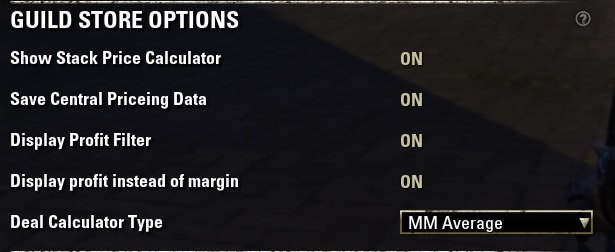
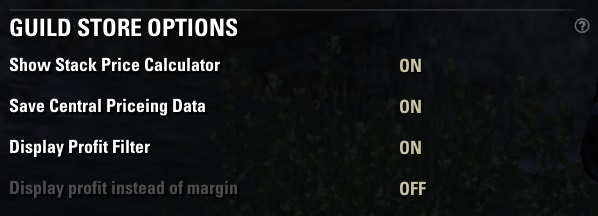
added menu explinations

diff --git a/3-master_merchant.html b/3-master_merchant.html
@@ -591,7 +591,17 @@ title: Master Merchant
 <p class="empty">&nbsp;</p>
 <p>{% include image.html file="img/custom_deal_calc.jpg" alt="custom_deal_calc" %}</p>
 <p class="empty">&nbsp;</p>
-<p class="note"> There is no function to check if you set an incorrect value or not. Meaning if Okay Deal Range is 25 percent and the Reasonable Deal Range is 20 percent, nothing will tell you that's not going to work. You will need to keep the values in order yourself from lowest to highest.</p>
+<p class="list-1">&bull;&nbsp; <font class="tan">Deal Calculator Type</font>: Choose from MM Average, TTC Average, TTC Suggested, and the Bonanza Price.</p>
+<p class="list-1">&bull;&nbsp; <font class="tan">Modify TTC Suggested Price by 25 percent</font>: When enabled will add 25 percent to the Suggested Price used for the Deal Calculator and the ToolTip. This is the same value as showin in the TTC Tooltip. See the <font class="tan">Modified Suggested Price</font> spoiler below for an example.</p>
+<p class="empty">&nbsp;</p>
+<p class="note"> There is no function to check if you set an incorrect value or not. Meaning if <font class="white">Okay Deal Range</font> is <font class="tan">25</font> percent and the <font class="ltgreen">Reasonable Deal Range</font> is <font class="tan">20</font> percent, nothing will tell you that's not going to work. You will need to keep the values in order yourself from lowest to highest.</p>
+<p class="empty">&nbsp;</p>
+<div id="modifiedsuggestedprice"></div>
+<input type="checkbox" id="spoiler2" />
+<label for="spoiler2">Modified Suggested Price</label>
+<div class="main-content">
+<p>{% include image.html file="img/example_ttc_suggested.jpg" alt="example_ttc_suggested" %}</p>
+</div>
 <p class="empty">&nbsp;</p>
 <h3 class="header3" id="OtherTooltipOptions">3.13.1.7 - Other Tooltip Options</h3>
 <p class="empty">&nbsp;</p>
@@ -608,6 +618,8 @@ title: Master Merchant
 <p class="empty">&nbsp;</p>
 <p>{% include image.html file="img/inventory_options.jpg" alt="inventory_options" %}</p>
 <p class="empty">&nbsp;</p>
+<p class="list-1">&bull;&nbsp; <font class="tan">Modify TTC Suggested Price by 25 percent</font>: When enabled will add 25 percent to the Suggested Price shown in the inventory. This is the same value as showin in the TTC Tooltip. See the <font class="tan">Modified Suggested Price</font> <a  href="#modifiedsuggestedprice" >spoiler above</a> for an example.</p>
+<p class="empty">&nbsp;</p>
 <h3 class="header3" id="GuildStoreOptions">3.13.1.10 - Guild Store Options</h3>
 <p class="empty">&nbsp;</p>
 <p>{% include image.html file="img/guild_store_options.jpg" alt="guild_store_options" %}</p>
@@ -620,7 +632,6 @@ title: Master Merchant
 <p class="list-1">&bull;&nbsp; <font class="tan">Save Central Pricing Data</font>: When <font class="yellow">Enabled</font> all pricing data is stored and available to all guilds. When <font class="yellow">Disabled</font> all pricing data is stored separate for each guild.</p>
 <p class="list-1">&bull;&nbsp; <font class="tan">Display Profit Filter</font>: Adds the Profit to the <font class="tan">Time</font> column for the guild store.</p>
 <p class="list-1">&bull;&nbsp; <font class="tan">Display profit instead of margin</font>: Enabled shows the profit value in gold pieces, and disabled shows a percentage.</p>
-<p class="list-1">&bull;&nbsp; <font class="tan">Deal Calculator Type</font>: Choose from MM Average, TTC Average, TTC Suggested, and the Bonanza Price.</p>
 <p class="empty">&nbsp;</p>
 <p class="note"> The Price Calculator will not show up with Awesome Guild Store. The Profit Filter is AGS only. Adding the profit margin or the total profit will be shown with or without AGS.</p>
 <p class="note"> Awesome Guild Store uses its own internal pricing routines and only uses the MM Pricing Data when there is not AGS information. Because of that it may appear that the MM pricing data is malfunctioning when it isn't.</p>
@@ -704,15 +715,15 @@ title: Master Merchant
 <p class="note"> While the selectors do not seem to be dependant on the sales in your Master Merchant Data, there may be unknown factors that prevent the selector from showing. The code is extremely old and dates back to the introduction of the Champion Points system.</p>
 <p class="empty">&nbsp;</p>
 <p><font class="yellow">Hat of a Mother's Sorrow</font></p>
-<input type="checkbox" id="spoiler2" />
-<label for="spoiler2">Hat of a Mother's Sorrow</label>
+<input type="checkbox" id="spoiler3" />
+<label for="spoiler3">Hat of a Mother's Sorrow</label>
 <div class="main-content">
 <p>{% include image.html file="img/ms_legendary.jpg" alt="ms_legendary" %}</p>
 </div>
 <p class="empty">&nbsp;</p>
 <p><font class="purple">Hat of a Mother's Sorrow</font></p>
-<input type="checkbox" id="spoiler3" />
-<label for="spoiler3">Hat of a Mother's Sorrow</label>
+<input type="checkbox" id="spoiler4" />
+<label for="spoiler4">Hat of a Mother's Sorrow</label>
 <div class="main-content">
 <p>{% include image.html file="img/ms_epic.jpg" alt="ms_epic" %}</p>
 </div>
@@ -826,8 +837,8 @@ title: Master Merchant
 <p class="empty">&nbsp;</p>
 <p>If you manually install your mods, of if you want to know which folders belong to Master merchant, click the spoiler.</p>
 <p class="empty">&nbsp;</p>
-<input type="checkbox" id="spoiler4" />
-<label for="spoiler4">Master Merchant Folders</label>
+<input type="checkbox" id="spoiler5" />
+<label for="spoiler5">Master Merchant Folders</label>
 <div class="main-content">
 <p>{% include image-caption.html file="img/mm_files_installed.jpg" alt="mm_files_installed" caption="To see a larger image, right click the image and choose View Image." %}</p>
 </div>
@@ -854,8 +865,8 @@ title: Master Merchant
 <p class="empty">&nbsp;</p>
 <p>I won't be showing how to install all the required libraries. If you need examples images of the two new libraries LibGuildRoster, and LibHistoire click the spoiler.</p>
 <p class="empty">&nbsp;</p>
-<input type="checkbox" id="spoiler5" />
-<label for="spoiler5">New Libraries</label>
+<input type="checkbox" id="spoiler6" />
+<label for="spoiler6">New Libraries</label>
 <div class="main-content">
 <p>{% include image-caption.html file="img/install_LibGuildRoster.jpg" alt="install_LibGuildRoster" caption="To see a larger image, right click the image and choose View Image." %}</p>
 <p class="empty">&nbsp;</p>
